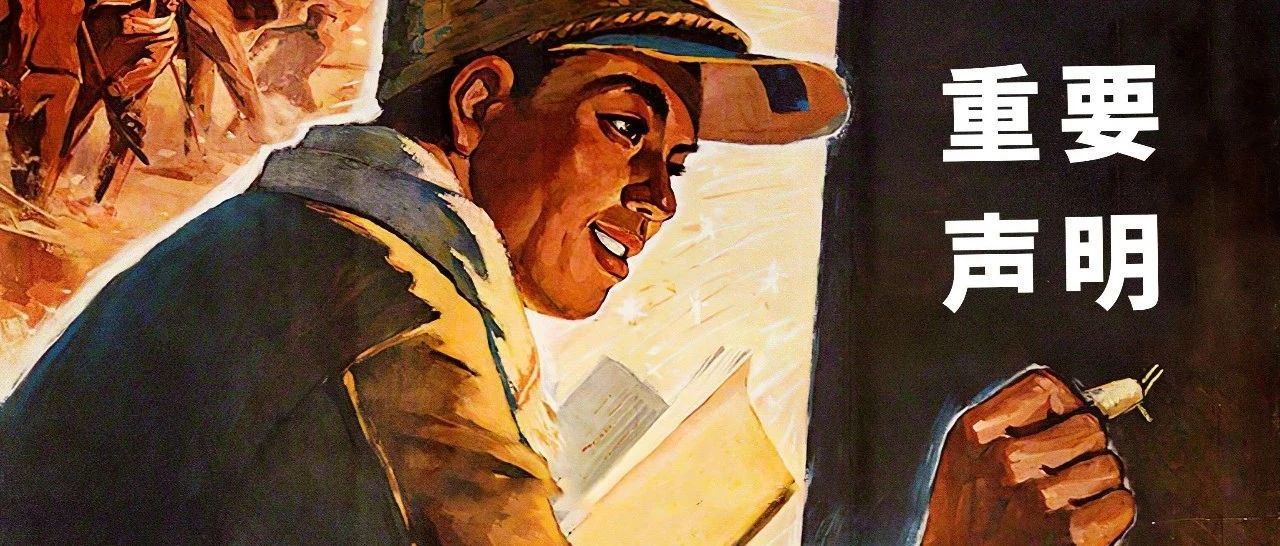
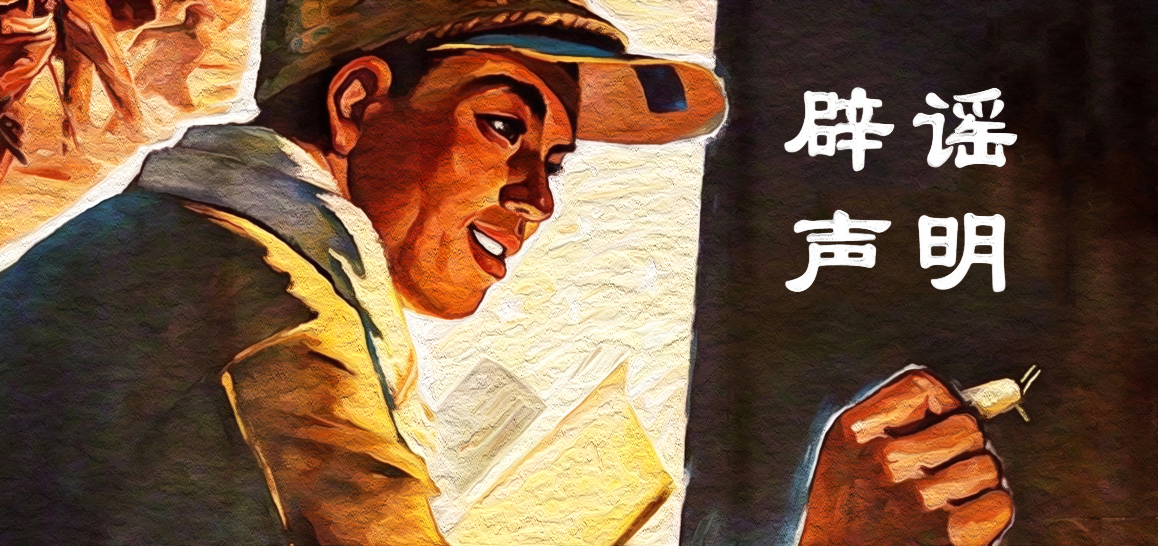
banner做了油画处理，大小裁切；index和quiz界面禁止滚动，适配手机的查看效果。—  by Cayman

diff --git a/前端/uni-app/pages/quiz/quiz.vue b/前端/uni-app/pages/quiz/quiz.vue
@@ -11,27 +11,27 @@
 		</hxNavbar>
 		
 			<!--欢迎页面-->
-		<view class="welcome" v-if="showWelcome==true" :style="{'height': welcomeHeight}" >           
+		<view class="welcome" v-if="showWelcome==true" style="overflow-y: hidden;" :style="{'height': welcomeHeight}" >           
 			<view class="flex align-center" :style="{'height': welcomeHeight}" style="background:url('/h5/static/Quiz_BG.png') no-repeat center; background-size:cover; " >
 				<!-- 背景设置 -->
 				<!-- <image src="/static/text-quiz.png" mode="aspectFit" style="width:100%;height:100%; "  :style="[{animation: 'show 1s 1'}]"></image> -->
 				<!-- 背景设置 -->
 				<view>
-					<image class="animation-slide-top" src="/static/slogan.png" mode="aspectFit" style="width: 90%;height:6%; position:absolute; left:calc(44rpx); top: calc(150rpx); border:#000 solid 0px" :style="[{animation: 'show 1s 1'}]"></image>
+					<image class="animation-slide-top" src="/static/slogan.png" mode="aspectFit" style="width: 90%;height:7%; position:absolute; left:calc(44rpx); top: calc(150rpx); border:#000 solid 0px" :style="[{animation: 'show 1s 1'}]"></image>
 				</view>
 				<view>
 					<!-- <image class="animation-slide-top" src="/static/quiz_name.png" mode="aspectFit" style="width: 90%;height:10%; position:absolute; left:calc(44rpx); top: calc(420rpx); border:#000 solid 0px;"  :style="[{animation: 'show 10s 100 alternate'}]"></image> -->
-					<image class="animation-slide-top" src="/static/quiz_name.png" mode="aspectFit" style="width: 90%;height:10%; position:absolute; left:calc(44rpx); top: calc(420rpx); border:#000 solid 0px" :style="[{animation: 'show 8s 100 alternate linear'}]"></image>
+					<image class="animation-slide-top" src="/static/quiz_name.png" mode="aspectFit" style="width: 90%;height:10%; position:absolute; left:calc(44rpx); top: calc(400rpx); border:#000 solid 0px" :style="[{animation: 'show 8s 100 alternate linear'}]"></image>
 				</view>
 				<view>
-					<image class="animation-slide-top" src="/static/quiz_logo.png" mode="aspectFit" style="width: 90%;height:16%; position:absolute; left:calc(40rpx); top: calc(760rpx); border:#000 solid 0px" :style="[{animation: 'show 1s 1'}]"></image>
+					<image class="animation-slide-top" src="/static/quiz_logo.png" mode="aspectFit" style="width: 90%;height:16%; position:absolute; left:calc(40rpx); top: calc(600rpx); border:#000 solid 0px" :style="[{animation: 'show 1s 1'}]"></image>
 				</view>
 				<view>
 					<!-- <image src="/static/text-button.png" @click="showContent"  mode="aspectFit" style="width: 58%;height:9%; left:calc(160rpx); top: calc(375rpx); border:#000 solid 0px;" :style="[{animation: 'show 1s 1'}]"></image> -->
-					<image class="animation-slide-top"  src="/static/text-button.png" @click="showContent" mode="aspectFit" style="width: 50%;height:8%; position:absolute; left:calc(198rpx); top: calc(1180rpx); border:#000 solid 0px" :style="[{animation: 'show 1s 1'}]"></image>
+					<image class="animation-slide-top"  src="/static/text-button.png" @click="showContent" mode="aspectFit" style="width: 50%;height:8%; position:absolute; left:calc(200rpx); top: calc(960rpx); border:#000 solid 0px" :style="[{animation: 'show 1s 1'}]"></image>
 				</view>
 				<view>
-					<image class="animation-slide-top" src="/static/copyright.png" mode="aspectFit" style="width: 60%;height:2%; position:absolute; left:calc(288rpx); top: calc(1490rpx); border:#000 solid 0px" :style="[{animation: 'show 1s 1'}]"></image>
+					<image class="animation-slide-top" src="/static/copyright.png" mode="aspectFit" style="width: 60%;height:2%; position:absolute; left:calc(288rpx); top: calc(1190rpx); border:#000 solid 0px" :style="[{animation: 'show 1s 1'}]"></image>
 				</view>
 			</view>	
 			

diff --git a/前端/uni-app/pages/index/index.vue b/前端/uni-app/pages/index/index.vue
@@ -1,7 +1,7 @@
 <template>
 	<view>
 		<!-- 中国加油界面 -->
-		<view class="welcome" v-if="!isShowContent" :style="{'height':height}">
+		<view class="welcome" style="overflow-y: hidden;" v-if="!isShowContent" :style="{'height':height}">
 			<scroll-view scroll-y class="DrawerPage" :class="modalName=='viewModal'?'show':''">
 				<uni-fab ref="fab" :pattern="pattern" :horizontal="horizontal" :vertical="vertical" :direction="direction"  @fabClick="showDrawer" Size="18px" Height="35px" Icon="send"/>
 				<view :style="{'height':height}" style="background:url('/h5/static/Search_BG.png') no-repeat center; background-size:cover; " >
@@ -11,7 +11,7 @@
 						<!-- <image src="/static/Search_CNJY.png" class="animation-slide-top" mode="aspectFit" style="width: 90%;height:17%; position:absolute; left:calc(44rpx); top: calc(180rpx); border:#000 solid 0px;animationDelay: 0.4s" ></image> -->
 					</view>
 					<view>
-						<image src="/static/Search_Button.png" class="animation-slide-top"  @click="showContent();" mode="aspectFit" style="width: 90%;height:17%; position:absolute; left:calc(44rpx); top: calc(650rpx); border:#000 solid 0px" :style="[{animation: 'show 1s 1'}]"></image>
+						<image src="/static/Search_Button.png" class="animation-slide-top"  @click="showContent();" mode="aspectFit" style="width: 90%;height:17%; position:absolute; left:calc(44rpx); top: calc(550rpx); border:#000 solid 0px" :style="[{animation: 'show 1s 1'}]"></image>
 					</view>
 				</view>
 			</scroll-view>
